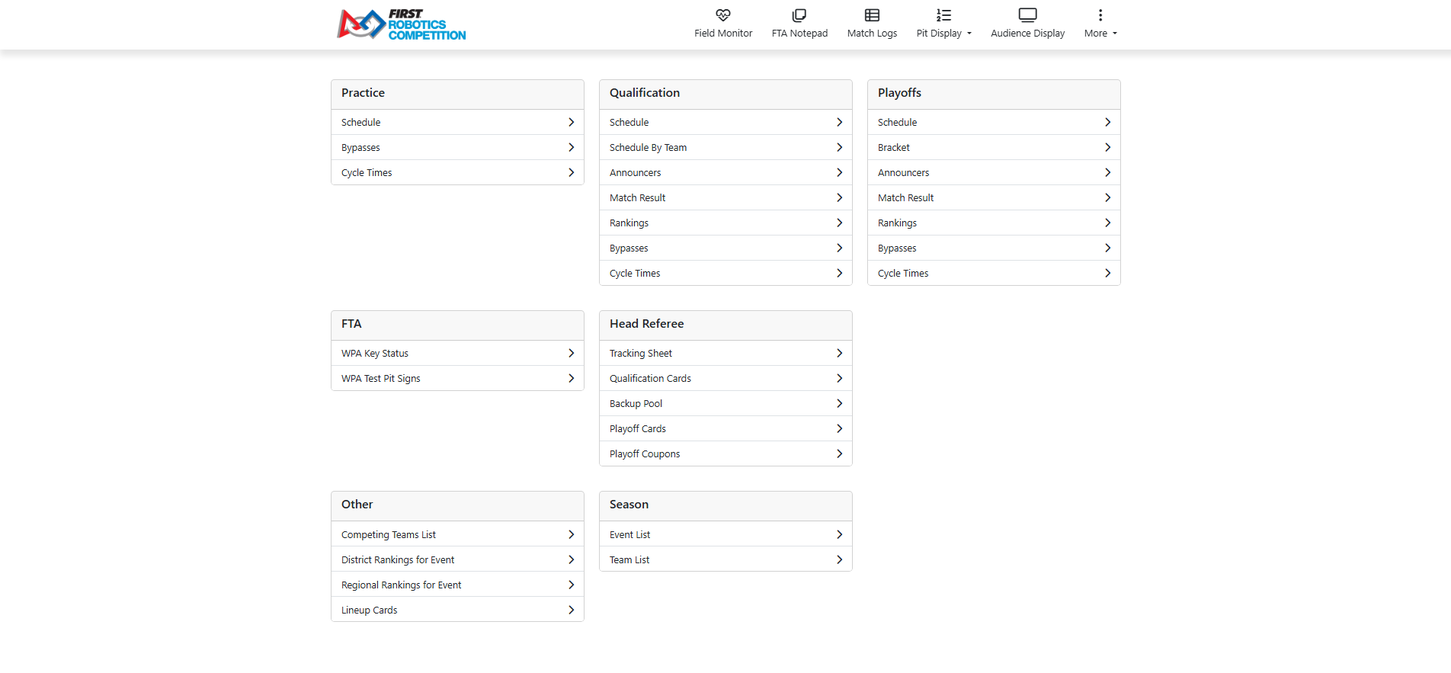
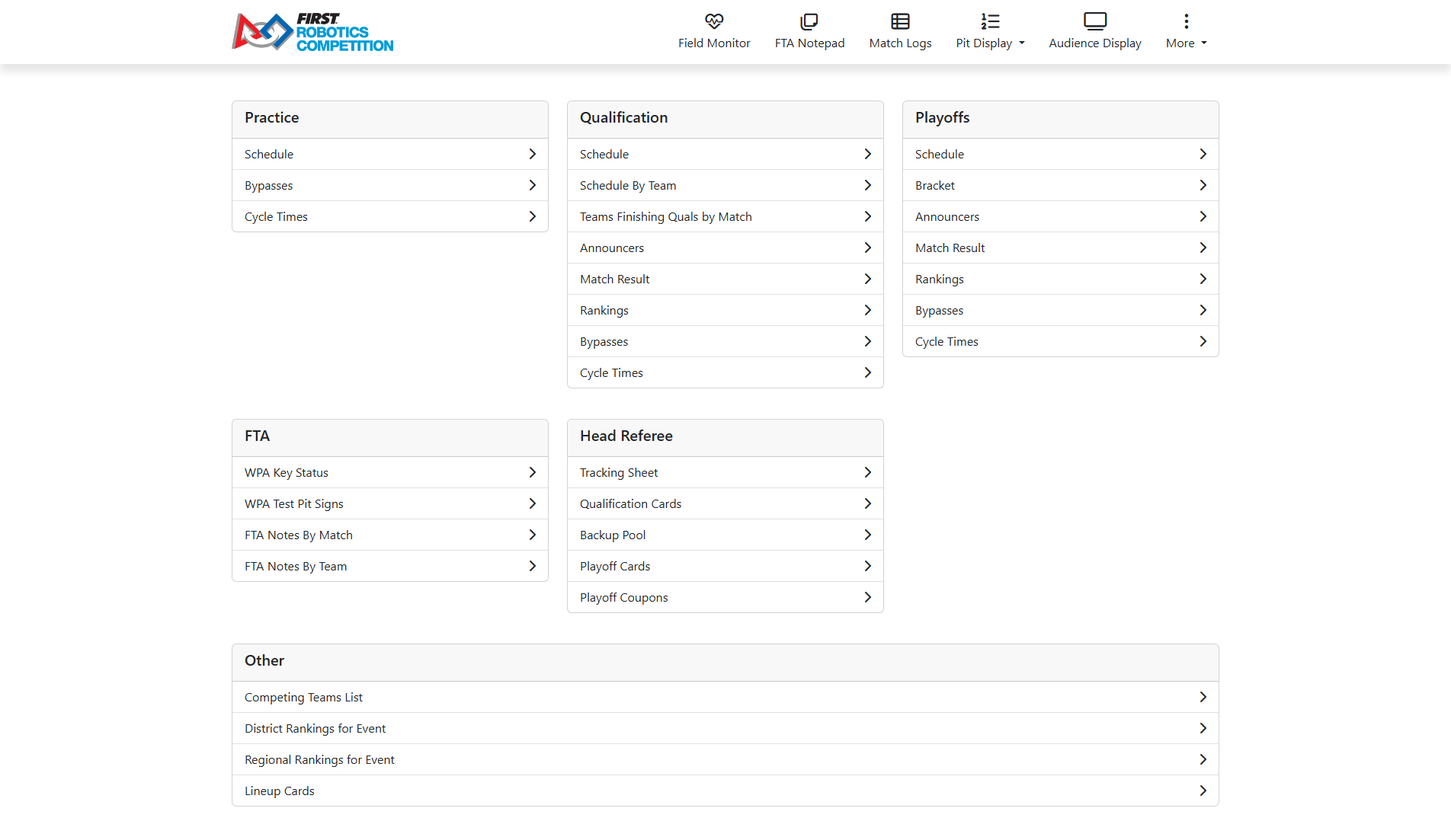
Correct stale content and replace out-of-date screenshots

diff --git a/source/event-manager/reports/reports.rst b/source/event-manager/reports/reports.rst
@@ -25,17 +25,17 @@ Available Reports
 
 Tournament Reports:
 
-* Practice Tournament
+* Practice Matches
 
    * *Schedule* : Practice tournament match schedule (updated as teams are added or removed from matches)
-   * *Cycle Time* : Shows the actual time between match starts
    * *Bypass* : Shows which teams have been Bypassed during which matches of the practice tournament
+   * *Cycle Time* : Shows the actual time between match starts
 
 
-* Qualification Tournament
+* Qualification Matches
 
    * *Schedule* : Qualification match schedule
-   * *Schedule By Team* : Qualification match schedule, sorted by team (lengthy report, not recommended for printing)
+   * *Schedule by Team* : Qualification match schedule, sorted by team (lengthy report, not recommended for printing)
    * *Announcer’s Report* : Detailed report of team details for reference by the announcers (one page per match)
    * *Match Results* : Final scores of all completed matches in the qualification tournament
    * *Teams Finishing Quals by Match* : Lists each qualification match that is the last scheduled qualification match for one or more teams, with the numbers of the teams that finish in that match. Useful for knowing when each team has played its final qualification match.
@@ -50,7 +50,7 @@ Tournament Reports:
    * *Bracket* : Tournament bracket
    * *Announcer’s Report* : Detailed report of team details for reference by the announcers (one page per alliance)
    * *Match Results* : Final scores of all completed matches in the playoff tournament
-   * *Playoff Rankings Report* : Shows the playoff alliances in rank order within the current playoff level and with their ranking detail
+   * *Playoff Rankings* : Shows the playoff alliances in rank order within the current playoff level and with their ranking detail
    * *Bypass* : Shows which teams have been Bypassed during which matches of the playoff tournament
    * *Cycle Time* : Shows the actual time between match starts
 
@@ -67,30 +67,23 @@ FTA Reports:
 Head Referee Reports:
 
 * *Tracking Sheet:* Used by Head Referees for tracking information throughout the event. Head Referee may request a copy from the Scorekeeper.
-* *Qual. Cards* : Match schedule showing teams with assigned cards during the qualification tournament
-* *Backup Robots* : For tracking teams as they accept or decline their position as a backup robot in the playoff tournament
-* *Playoff Cards* : Match schedule showing alliances with assigned cards during playoff matches
+* *Qual. Cards Report* : Match schedule showing teams with assigned cards during the qualification tournament
+* *Backup Pool Report* : For tracking teams as they accept or decline their position as a backup robot in the playoff tournament
+* *Playoff Cards Report* : Match schedule showing alliances with assigned cards during playoff matches
 * *Playoff Coupons* : Backup robot coupons for the playoffs tournment
+* *Lineup Cards* : Lineup submission sheets for use during the playoff tournament
 
 
 Awards Reports:
 
-* *Awards List* : Lists awards to be given out at the event. The winners are included if they have been assigned.
-* *Awards Eligibility Report* : Lists all teams attending the event and their eligibility for certain awards (such as the Rookie All Star Award).
-* *Wildcards Script* : Script for the Announcer to read should any Wildcards be generated at the event
+* *Award List Report* : Lists awards to be given out at the event. The winners are included if they have been assigned.
+* *Award Eligibility Report* : Lists all teams attending the event and their eligibility for certain awards (such as the Rookie All Star Award).
 * *Award Script Day 1* : Script for the Announcer to read for awards expected to be presented on the first day of the event
 * *Award Script Day 2* : Script for the Announcer to read for awards expected to be presented on the second day of the event
 
 
 Other Event Reports:
 
-* *Competing Teams List Report* : Same as the season team list, but filtered to only the teams competing at the currently selected event
-* *District Rankings for Event Report* : District rankings of eligible teams playing at the currently selected event. Not representative of overall district ranking, only position at the selected event. Only available when the active event is a District event or District Championship.
+* *Competing Teams List Report* : A complete list of the teams competing at the currently selected event
+* *District Rankings For Event Report* : District rankings of eligible teams playing at the currently selected event. Not representative of overall district ranking, only position at the selected event. Only available when the active event is a District event or District Championship.
 * *Regional Rankings For Event Report* : Regional rankings and points awarded at the currently selected event for every team. Only available when the active event is a Regional.
-* *Lineup Cards* : Lineup submission sheets for use during the playoff tournament
-
-
-Season Reports:
-
-* *Event List* : A complete list of all FRC events in the current season (including those manually added via FMS)
-* *Team List* : A complete list of all registered FRC Teams for the given season

diff --git a/source/event-manager/match-play-test/options-tab.rst b/source/event-manager/match-play-test/options-tab.rst
@@ -5,24 +5,24 @@ Options Tab
 
 .. image:: images/tabs-4.png
 
-Match timing can be adjusted from this screen, for use in such things as demo matches. Clicking *Restore Defaults* will return all three fields to their season-specific standards.
+Match timing can be adjusted from this screen, for use in such things as demo matches. Clicking *Restore Defaults* will return Auto Time, Teleoperated Time and Default Break Time to their season-specific standards; the two Scoring Delay fields are not changed.
 Select *save* after any adjustments for the timing to take effect. Timing can only be changed prior to Prestart.
 
 * *Timing Items* - Adjust the corresponding time
-* *Hide/Unhide Scores in Playoffs* - When enabled, the red and blue alliance total scores at the top of the Match Play screen are hidden when a Playoff match ends and shown again when the next match is started, so that a result cannot be read from the FMS screen before it is announced
+* *Hide/Unhide Scores Automatically in Playoffs* - When enabled, the red and blue alliance total scores at the top of the Match Play screen are hidden when a Playoff match ends and shown again when the next match is started, so that a result cannot be read from the FMS screen before it is announced
 * *Hide Scores* - Hide and unhide the red and blue alliance total scores at the top of the Match Play screen on demand. The scores stay hidden until the option is turned off again, or until the next Playoff match is started if the option above is enabled
-* *Practice Field Mode* - Commits matches without scores, for fields where the score does not matter. Requires an HQ password to enable. See :ref:`Practice Field Mode <match-play-practice-field-mode>`.
+* *Practice Field Mode* - Commits matches without scores, for fields where the score does not matter. Requires :ref:`HQ approval <hq-approval>` to enable. See :ref:`Practice Field Mode <match-play-practice-field-mode>`.
 
 .. note::
    Both Hide Scores options affect only the two alliance totals on the Match Play screen. They do not hide or change anything on the Audience Display.
 
 On the right side of the display there are options for some common operations:
 
-* *Force Cleanup Lights On* - When not in-match, force the purple "cleanup" lights to illuminate and indicate field staff may begin clearing the field. Cannot be used once the green lights are on (or in games where cleanup lights are not applicable).
-* *Force Field Reset Lights On* - When not in-match, force the green field reset lights to illuminate and indicate to teams and field staff that the field is "safe to enter"
-* *Awards Mode* - Change the state of lights and motors on the field into a photogenic mode worthy of the awards ceremony
+* *Force Purple Lights On [CLEAn]* - When not in-match, force the purple "cleanup" lights to illuminate and indicate field staff may begin clearing the field. Not available in the Off-Season version of the software.
+* *Force Green Lights On [SAFE]* - When not in-match, force the green field reset lights to illuminate and indicate to teams and field staff that the field is "safe to enter". Not available in the Off-Season version of the software.
+* *Awards Mode* - Change the state of lights and motors on the field into a photogenic mode worthy of the awards ceremony. Not available in the Off-Season version of the software.
 * *Force Event Database Backup* - Force a copy of the event database to be made and written to the USB Drive specified in :doc:`Settings <../settings/backup-config>`
-* *Re-calculate Current Rankings* - Runs all teams through the calculator for the given tournament phase
-* *Re-calculate District Rankings* - Runs all teams through the calculator for the distirct rankings at the selected event. Only enabled at District events and District Championships
+* *Recalculate Qual/Playoff Rankings* - Runs all teams through the calculator for the given tournament level
+* *Recalculate District Rankings* - Runs all teams through the calculator for the distirct rankings at the selected event. Only enabled at District events and District Championships
 * *Recalculate Regional Advancement Rankings* - Recalculates the regional points of every team at the event and shows "Recalculation Completed" when it has finished. Only enabled at Regional events. It does not determine or publish which teams advance; that is done on the :ref:`Regional Advancement <event-wizard-regional-advancement>` step of the Event Wizard
 * *Clear Access Point* - Remove the team number programming from the AP (does not change the 2.4 GHz radio). Useful in situations where a team needs to connect to their machine, but the AP is currently programmed to their team number (such as between finals matches)

diff --git a/source/scorekeeper-reference/step-by-step/setup.rst b/source/scorekeeper-reference/step-by-step/setup.rst
@@ -47,7 +47,7 @@ Setup Process
 
 #. Within the FMS Event Manager software, click the "Field Test" button at the top of the application and ensure all of the hardware is online.
 
-   * All component LEDs should be Green. You may need to click "Refresh Indicators" to get updated information.
+   * All component LEDs should be Green. You may need to click "Refresh All Field Test Indicators" to get updated information.
   
       * Any elements under "Field Hardware" that remain Red may need HQ Support to help troubleshoot.
       * The FTA should help troubleshoot all components of the Field.
@@ -55,7 +55,7 @@ Setup Process
 #. Run Match Test to confirm that all field components operate correctly. This process should be coordinated with the FTA.
 
    .. note::
-       You cannot access the Match Test area (the button will not become active) until the Data Download (Step 1) has been completed, an event is selected, and the database has been created (Step 2). Contact FRC Support for assistance if this has not been completed yet.
+       You cannot access the Match Test area (the button will not become active) until the "Data Download" step of the Event Wizard has been completed, and an event has been selected and its database created in the "Event Selection" step. Contact FRC Support for assistance if this has not been completed yet.
 
 #. Coordinate with the FTA and A/V to ensure that all game sounds play correctly. You can use the sound test buttons within the Audience Display settings panel, or use the loop sound button in the Audience Display hover menu (move the mouse over the display).
 #. Verify the printer is working correctly.
@@ -69,7 +69,7 @@ Setup Process
    .. important::
       Verify with the FTA before making any changes.
 
-#. Generate Practice Match schedules (be sure to use the Lunch checkbox if applicable) and activate the Practice schedule (Steps 3 through 6 in the Event Wizard) and print out sufficient copies to distribute to teams (from the “Reports” button at the top of the application). In some venues, the Pit Admin may only need a single copy of the schedule and they’ll go and make copies. Work with the Event Manager and the FTA to ensure that the Practice Match schedule works within the overall timeframe of the practice portion of the event.
+#. Generate Practice Match schedules (be sure to use the Lunch checkbox if applicable) and activate the Practice schedule (the "Practice Team Selection" through "Activate Practice Schedule" steps in the Event Wizard) and print out sufficient copies to distribute to teams (from the “Reports” button at the top of the application). In some venues, the Pit Admin may only need a single copy of the schedule and they’ll go and make copies. Work with the Event Manager and the FTA to ensure that the Practice Match schedule works within the overall timeframe of the practice portion of the event.
 #. Work with the FTA to determine if you need to print the Announcer’s Report for practice matches. Often this is not necessary.
 #. Work with the FTA to ensure that the WPA Kiosk(s) have been set up. The WPA key file can be imported to the kiosk via the FMS network or exported from the “Practice Team Selection” step from the Event Wizard. Most FTAs will prefer to import the key file over the network.
 #. Ensure the Backup Configuration settings have been set.

diff --git a/source/scorekeeper-reference/step-by-step/qualification.rst b/source/scorekeeper-reference/step-by-step/qualification.rst
@@ -37,26 +37,26 @@ Qualification
    * For three-day Regional events only, load in the Friday Award winners.
 
       * Navigate to Award Assignment step in the Event Wizard
-      * If the Judge Advisor has uploaded the awards, you can click "Download Judge's Award Assignments" otherwise you will need to enter the award assignments manually.
+      * If the Judge Advisor has uploaded the awards, you can click "Download Assignments from AES" otherwise you will need to enter the award assignments manually.
 
    * During the Awards Ceremony, put the field lights into "Awards Mode."
    * Check with the FTA to determine if power will remain on or will be shut off overnight. If power to the field will be turned off, shutdown the Scorpion server with direction from the FTA. Otherwise, put the field in Night Mode.
 
 #. When you reach the end of Qualification Matches (and are headed into Alliance Selection):
 
-   * Using the Options tab in Match Play select "Recalculate Rankings" for the qualification matches
+   * Using the Options tab in Match Play select "Recalculate Qual/Playoff Rankings" for the qualification matches
    * Use the "Settings" button, "Backup" tab, "Force Event Backup" button to ensure the event database is backed up.
    * Print the Qualifications Ranking report for the Announcer and Emcee as soon as the final qualification match has completed.
    * Use the Alliance Selection step in the Event Wizard to set alliances as they are picked. 
    * Use the video switcher on the alliance wizard step to select the Alliance Selection display onto the audience screens during the Alliance Selection ceremony.
    * Verify what time the Playoff matches will start with your FTA so that the schedule can be constructed as soon as alliances have been selected
 
-#. Immediately following the Alliance Selection process, quickly build the playoff schedule so that the Backup Robots report and Playoff Coupon report can be printed out. Verify that the cycle time is set to 9 minutes.
+#. Immediately following the Alliance Selection process, quickly build the playoff schedule so that the Backup Pool Report and Playoff Coupon report can be printed out. Verify that the cycle time is set to 9 minutes.
 
    * All that needs to be known is the time which Playoff matches will begin, and the number of matches in playoffs is always the same. Matchmaker is not used in Playoff Match Generation.
-   * The Backup Robot report must go to the Head Referee immediately (so that they can hand it to another Referee or Queue staff to handle backup robot acceptance)
+   * The Backup Pool Report must go to the Head Referee immediately (so that they can hand it to another Referee or Queue staff to handle backup robot acceptance)
    * The Playoff Coupons and Lineups are to be distributed to alliance captains (via the Head Referee). They will need the following items (cut and ready for them): Playoff Coupons, Lineup Cards, 8 Schedules and 8 Brackets
-   * Keep the Backup Robot report in a safe spot near you once it has been returned by the Referees (which may not be until after lunch)
+   * Keep the Backup Pool Report in a safe spot near you once it has been returned by the Referees (which may not be until after lunch)
    * Print some additional Brackets and Schedules for queuing and field staff
 
 #. Activate the Playoff Match Schedule.

diff --git a/source/event-manager/event-wizard/team-selection.rst b/source/event-manager/event-wizard/team-selection.rst
@@ -81,13 +81,13 @@ and the line it was found on.
 The usual causes are a header row, team names left in alongside the numbers, or a team that has not been downloaded from
 *FIRST* or created with "New Team" yet. 
 
-Save Event Participants
-#######################
+Confirm Team Selection
+######################
 
 .. image:: images/team-selection-3.png
 
 Once the teams competing at the event have all been checked off and the proper number is displayed under "Total Competing Teams", the event participant data should be saved.
-This is done using the "Save Event Participants" button (**green button inside the pink box**). This button performs the following tasks:
+This is done using the "Confirm Team Selection" button (**the green button at the bottom of the pink box**). This button performs the following tasks:
 
 * Creates event particpant records in the FMS database
 * Generates WPA Keys for robot wifi connection to the field. Once keys are generated the "Key Generated" column will display the new status of "True".
@@ -100,12 +100,12 @@ This is done using the "Save Event Participants" button (**green button inside t
 
 Once the keys are generated, the FTA should use the WPA Kiosk program on the WPA Laptop to download keys from FMS to the kiosk program. This download process will require FTA authentication and is outlined in more detail :ref:`wpa-kiosk-setup`.
 
-As a backup to the traditional WPA Kiosk setup process, the Export Keys button (**blue button inside the pink box**) can be used to save the key file needed to run the Radio Kiosk.
+As a backup to the traditional WPA Kiosk setup process, the "Export Keys" button (**inside the pink box**) can be used to save the key file needed to run the Radio Kiosk.
 This should only be used by the FTA, as it requires their password to complete, and is only used as a backup solution.
 
 The schedule generation steps assume that all teams will use the same security keys throughout the event; as a result, performing Keys steps is not necessary to repeat on each Team Selection step of the Wizard (even though there are multiple).	
 
-The Clear All Keys button (**red button in the pink box**) returns all teams to their default, keyless, state. This should only be used at the direction of *FIRST* HQ and requires the FTA password.
+The "Clear All Keys" button (**the red button in the pink box**) returns all teams to their default, keyless, state. This should only be used at the direction of *FIRST* HQ and requires the FTA password.
 
 Importing Keys
 --------------

diff --git a/source/event-manager/settings/backup-config.rst b/source/event-manager/settings/backup-config.rst
@@ -8,7 +8,7 @@ Backup Config
     :width: 450
 
 |
-| The Backup Config tab provides facilities to set a data backup location and manually force backups to occur. Backups should be set to an off-system USB storage 
+| The Backup tab provides facilities to set a data backup location and manually force backups to occur. Backups should be set to an off-system USB storage 
     location using the "Browse" button (top of the image) to select the location. The currently selected location will be shown in the text box to the left of the Browse button.
 
 The backup is used when uploading event archives to *FIRST*- so it's important to check the backup location in the event of an upload failure (it may be a full location or unavailable). 
@@ -20,4 +20,5 @@ The "Force System Backup" button (bottom right) is used to manually force a back
 
 As backups are performed, the times of the latest of each type are shown next to their names.
 
-If enabled, backups can be saved to the cloud on a regular basis. Thr frequency is the number of matches after which a new incremental backup should be dispatched to the cloud.
+If enabled, backups can be saved to the cloud on a regular basis. The "Full Backup Frequency" is how often a full backup is made in place of an incremental one; with a frequency of 5, every fifth backup of a database is a full backup.
+It applies to all backups, whether or not they are saved to the cloud. Changes to "Upload Backups to Cloud" and "Full Backup Frequency" take effect when "Save" is clicked, which requires :ref:`HQ approval <hq-approval>`.

diff --git a/source/event-manager/field-test/game-specific.rst b/source/event-manager/field-test/game-specific.rst
@@ -8,8 +8,13 @@ Field Test - Game Specific
 
 .. image:: images/field-test-game-specific.png
 
-IO Status blocks will be green or red to indicate whether they can be detected by FMS. 
+The Game Specific tab is used to test the hardware and lighting of the current season's field elements. The elements and the names of the controls change each season,
+but the tab has the same layout for each alliance, with the Blue Alliance on the left and the Red Alliance on the right:
 
-The Barge Light Dropdown can be used to test individual light bars in the truss.
+* A connection status block, which will be green or red to indicate whether the alliance's game specific hardware can be detected by FMS.
+* A row of numbered sensor blocks, which change color and text as each sensor in the field element is triggered. Trigger each sensor on the field and confirm that its block changes.
+* A light mode dropdown, which can be used to turn the lights of the field element off or on, light individual sections, or run a preset pattern.
+* Start and Stop buttons for each set of motors in the field element.
 
-The Barge Light Pattern button can be used to run a preset pattern on the field truss.
+Clicking a Start button asks for confirmation before the motor runs. Ensure no one has their hands in or near the field element, and communicate to everyone on the field that the motor is starting,
+then choose "Start Motor" to continue. The Stop buttons stop the motors immediately, without a confirmation.

diff --git a/source/event-manager/settings/data-sync.rst b/source/event-manager/settings/data-sync.rst
@@ -5,6 +5,6 @@ Data Sync
 
 .. image:: images/data-sync-0.png
 
-The Data Sync tab is used to monitor and control syncing tournament data to the *FIRST* servers; the functions and settings in this tab require :ref:`HQ approval <hq-approval>`. It is important to ensure that for off-season events not authorized to sync data to *FIRST* the Sync Setting is DISABLED. If this setting is ENABLED, CPU and network resources are consumed attempting to upload tournament data to *FIRST* servers and may cause delays or errors while running the event.
+The Data Sync tab is used to control syncing tournament data to the *FIRST* servers; the functions and settings in this tab require :ref:`HQ approval <hq-approval>`. It is important to ensure that for off-season events not authorized to sync data to *FIRST* the Sync Setting is DISABLED. If this setting is ENABLED, CPU and network resources are consumed attempting to upload tournament data to *FIRST* servers and may cause delays or errors while running the event.
 
-Beyond the enable setting, status information is displayed for use by FRC Engineering when performing advanced sync related tasks- it's not useful to (or available to) the end user.
+Beyond the enable setting, the other controls on the tab are for use by FRC Engineering when performing advanced sync related tasks- they are not useful to (or available to) the end user.

diff --git a/source/scorekeeper-reference/step-by-step/playoffs.rst b/source/scorekeeper-reference/step-by-step/playoffs.rst
@@ -36,8 +36,8 @@ Stay calm, stay hydrated, enjoy the matches. You've got the best seat in the hou
    * The backup robot coupon should come with a new lineup card and also be delivered to the Head Ref or their designee.
    * The Head Ref/FTA will probably ask about who is first on the list before the coupon is officially submitted to the scoring table for use.
    * Return to Event Wizard and Select Alliance Membership before prestarting the match where the new robot will be coming in.
-   * Select radio button next to the team subbing out and enter the backup team number into the Round 3 / Backup slot.
-   * Select "Save Alliances" and once you verify changes - return to match play.
+   * Enter the backup team number into the "Backup" column, in the row of the alliance the team is joining. See :ref:`Alliance Membership <event-wizard-alliance-membership>`.
+   * Select "Save Alliances", choose "Submit" when FMS asks "Add team to alliance?", and once you verify changes - return to match play.
 
 #. In case of a tie during eliminations - the tiebreakers found in the Tournament section of the Game Manual should be utilized by the Head Ref
 #. Awards will be announced during 15-minute awards breaks after round 4, 5, and between finals matches.

diff --git a/source/event-manager/match-play-test/practice-field-mode.rst b/source/event-manager/match-play-test/practice-field-mode.rst
@@ -16,7 +16,7 @@ matches can be cycled quickly without referees or scoring input.
    Practice Field Mode is not the same thing as a Practice match or the Practice schedule, and it is not required in
    order to play Practice matches. Practice matches at an event are normally played with Practice Field Mode disabled,
    as described in the :ref:`Practice step <scorekeeper-practice>` of the Scorekeeper reference. It is also separate
-   from the field type selected in :ref:`Multi-field Setup <settings-multi-field>`.
+   from the field type selected in :ref:`Multifield Setup <settings-multi-field>`.
 
 Enabling and Disabling
 ----------------------
@@ -25,7 +25,7 @@ Practice Field Mode is a toggle on the :ref:`Options tab <match-play-options>` o
 the toggle and select *Save* for it to take effect. Like the other settings on the Options tab, it cannot be changed
 while a match is in progress.
 
-Enabling Practice Field Mode requires an HQ password / intervention. Disabling it does not.
+Enabling Practice Field Mode requires :ref:`HQ approval <hq-approval>`. Disabling it does not.
 
 The setting is shared between Match Play and Match Test, and it stays enabled when FMS is closed and reopened. FMS
 disables it automatically when:

diff --git a/source/event-manager/event-wizard/event-selection.rst b/source/event-manager/event-wizard/event-selection.rst
@@ -12,8 +12,15 @@ Selecting a traditional event
 	:alt: UI Screenshot
 
 |
-| The Event Selection step of the Event Wizard displays the complete list of events from Data Download.
+| The Event Selection step of the Event Wizard displays the list of events from Data Download.
 	Select the event to be played by clicking on it. In this example, the selected event is shown with a green marker and highlighted blue background on the row.
+
+Two switches above the list shorten it to the events most likely to be needed. Both are on each time the step is opened.
+
+* "Filter by Truck Type" - Shows only the events that this FMS server is expected to be used at; for example, a server that belongs to a district shows only that district's events. Off-Season events are still shown.
+* "Filter by date" - Shows only events that have not yet ended and that start within the next 7 days.
+
+The active event, and any event created with the "New" button, is always shown. If the event to be played is not in the list, turn the filters off to see the complete list of events.
 
 [**Green Marker**] The currently selected event, if there is one, will be shown with a highlighted row background
 

diff --git a/source/event-manager/event-wizard/alliance-membership.rst b/source/event-manager/event-wizard/alliance-membership.rst
@@ -12,7 +12,7 @@ team not selected during Alliance Selection process to act as a Backup Robot. Th
 
 [*Pink Box*] Type the incoming team number into the corresponding row for the alliance they are joining
 
-[*Green Box*] The list of available team eligible to come into the playoff tournament. This list should be compared to the teams on the "Backup Team List" report and discussed with the Head Referee to select the correct team to bring into the tournament- it is not up to the choice of the alliance.
+[*Green Box*] The list of available team eligible to come into the playoff tournament. This list should be compared to the teams on the "Backup Pool Report" and discussed with the Head Referee to select the correct team to bring into the tournament- it is not up to the choice of the alliance.
 
 .. image:: images/alliance-membership-2.png
 
